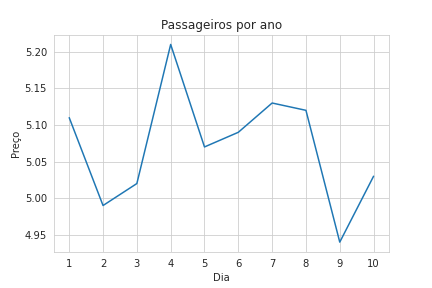
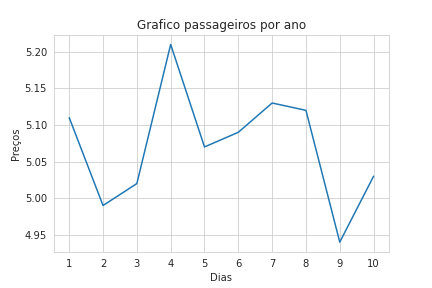
arquivo gasolina.py e gasolina.png alterado em dev

Changed region(s): [[0.3009, 0.0625, 0.7222, 0.125], [0.0, 0.4375, 0.0602, 0.5625], [0.4815, 0.9375, 0.5417, 1.0]]

diff --git a/gasolina.py b/gasolina.py
@@ -29,6 +29,6 @@ list_final.to_csv("./gasolina_DF.csv", index=False)
 with sns.axes_style('whitegrid'):
 
   grafico = sns.lineplot(data=list_final, x="dia", y="venda", palette="pastel")
-  grafico.set(title='Passageiros por ano', xlabel='Dia', ylabel='Preço');
+  grafico.set(title='Grafico passageiros por ano', xlabel='Dias', ylabel='Preços');
 
 grafico.figure.savefig('gasolina.png')
